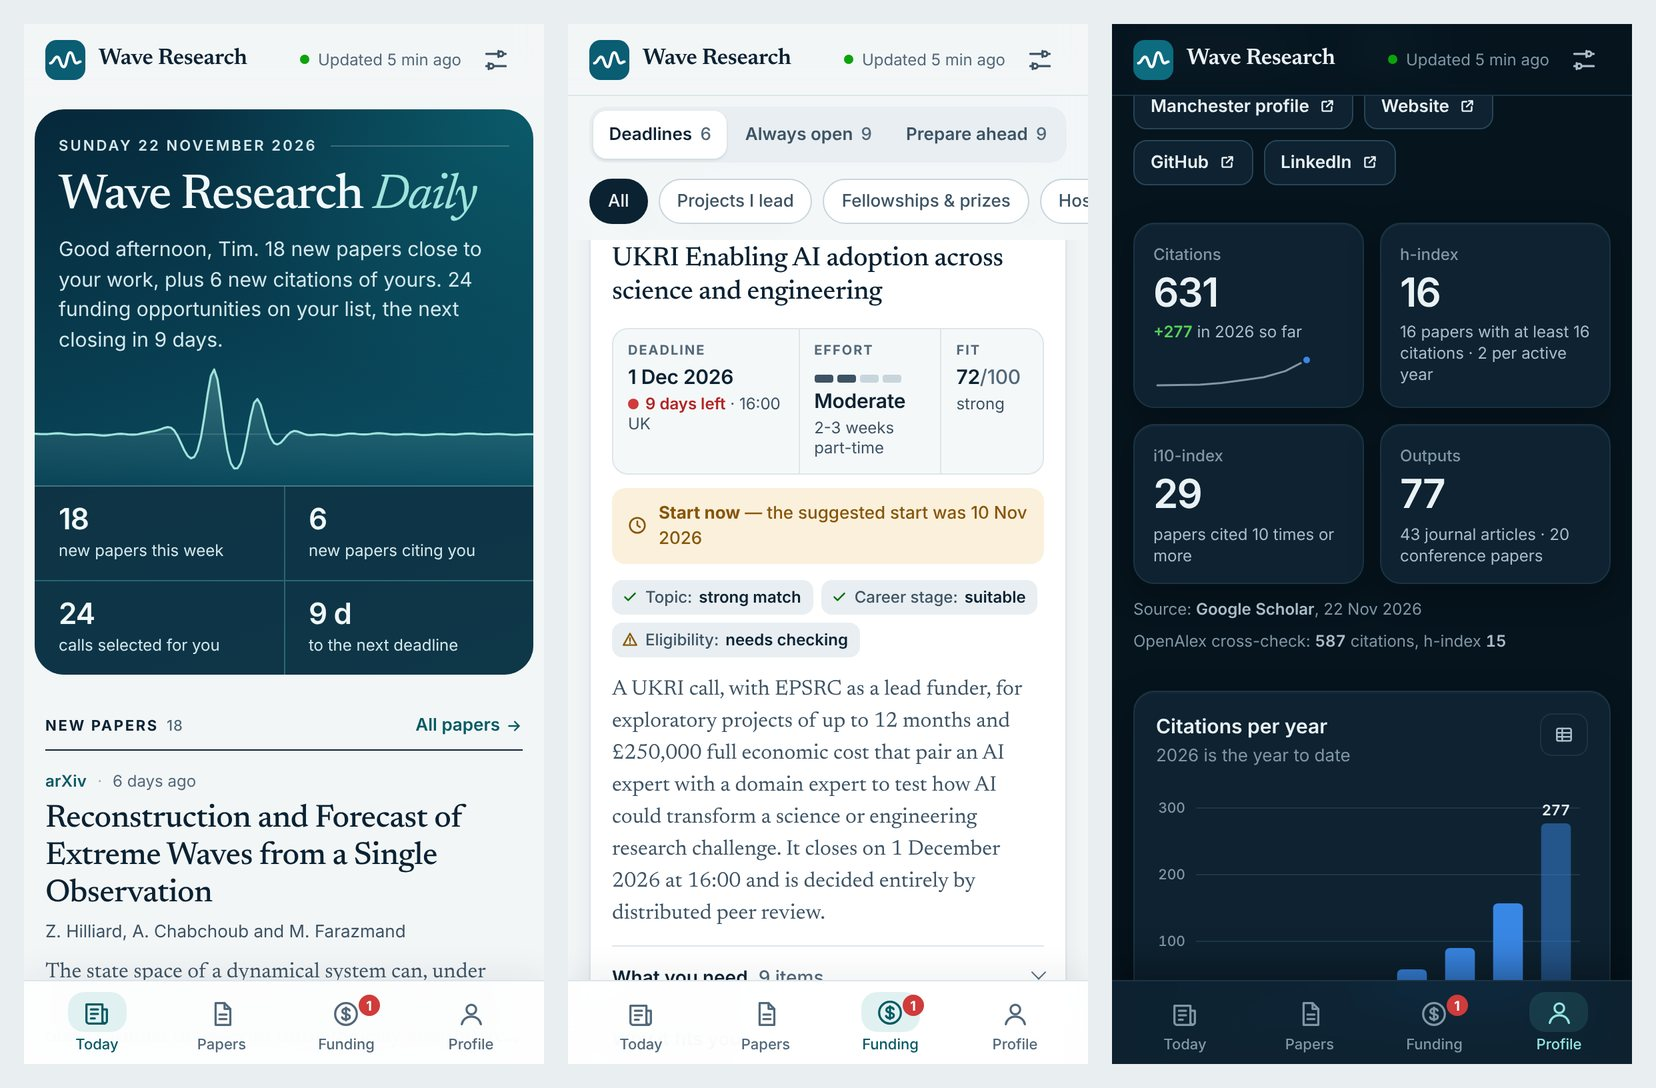
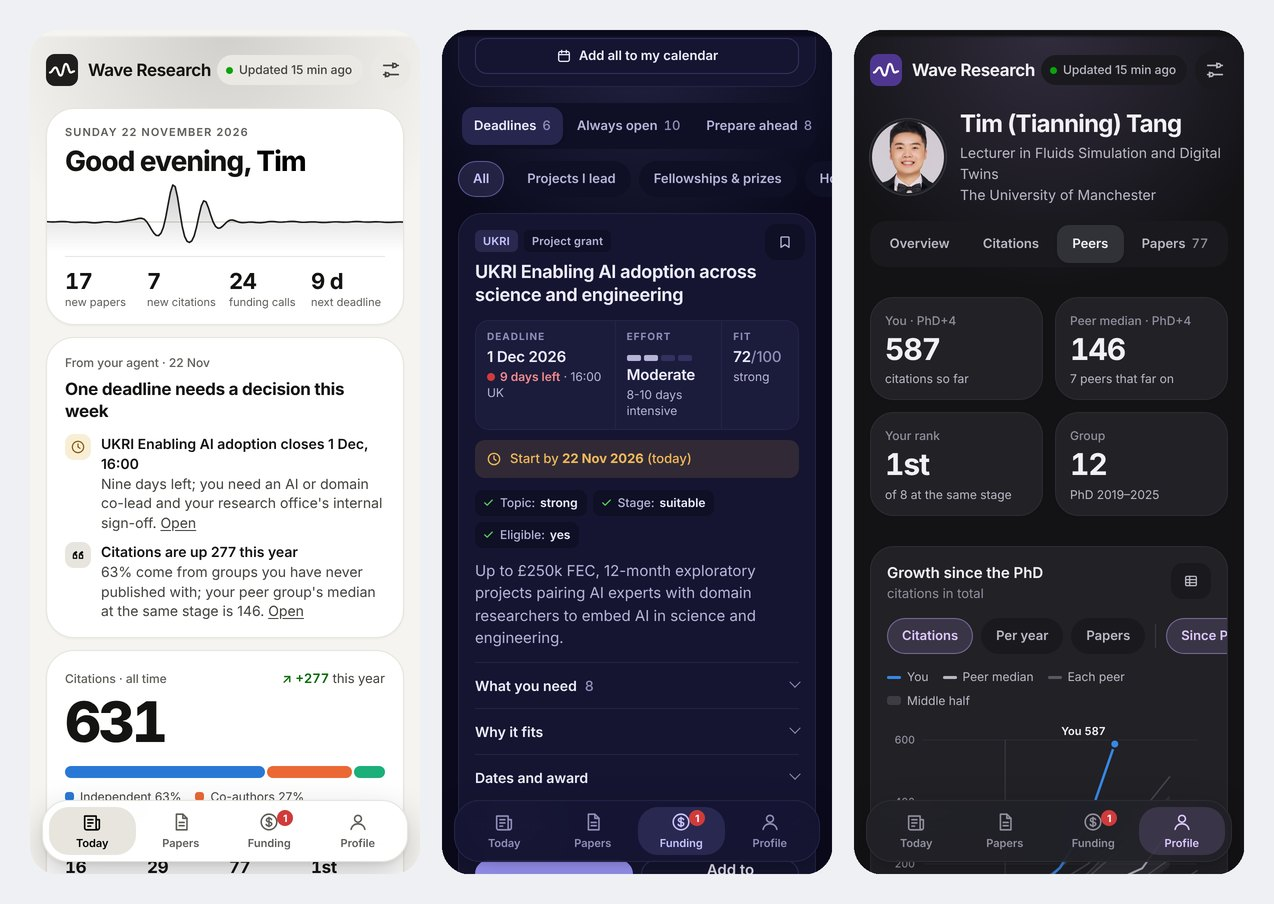
Fix the tab bar floating too high on iPhones that under-report the screen height
Opened from the home screen, the phone gave a height that left out the
strip under the status bar (894 of 956 points) although the page is drawn
there, so the shell stopped short. The height rule now adds that strip back
when it accounts exactly for the difference (or the app runs from the home
screen), still never exceeding the screen; it is a pure function with tests
for nine situations.

Also: a dark backdrop behind the clock on light themes when run from the
home screen, a quiet refresh when the app is reopened after two hours, and
new screenshots in the README.

Claude-Session: https://claude.ai/code/session_01KFCmtFvKPobm4RgsDFMyt1

diff --git a/assets/js/app.js b/assets/js/app.js
@@ -1,5 +1,5 @@
 // Wave Research — bootstrap, routing and the settings sheet.
-import { $, $$, esc, icon, store, shelf, toast, ago, daysTo, fmtDate, safeUrl, num } from './util.js';
+import { $, $$, esc, icon, store, shelf, toast, ago, daysTo, fmtDate, safeUrl, num, shellHeight } from './util.js';
 import { clearCharts } from './charts.js';
 import { paperIndex, isLive } from './cards.js';
 import { renderToday } from './view-today.js';
@@ -260,12 +260,19 @@ start();
 // A page opened from the home screen can report a viewport taller than the screen, which pushes
 // anything anchored to its bottom out of sight. The shell's height is therefore measured, and never
 // allowed to exceed the screen itself.
+let insetProbe = null;
 function fitShell() {
-  const vv = window.visualViewport;
-  const seen = Math.max(window.innerHeight || 0, vv ? vv.height : 0);
-  const screenMax = Math.max(window.screen?.height || 0, window.screen?.width || 0) || Infinity;
-  const h = Math.min(seen, window.innerWidth > window.innerHeight ? seen : screenMax);
-  if (h > 100) document.documentElement.style.setProperty('--app-h', `${Math.round(h)}px`);
+  if (!insetProbe) {                                     // reads env(safe-area-inset-top): the strip under the status bar
+    insetProbe = document.createElement('div');
+    insetProbe.style.cssText = 'position:absolute;visibility:hidden;pointer-events:none;height:0;padding-top:env(safe-area-inset-top,0px)';
+    document.body.appendChild(insetProbe);
+  }
+  const h = shellHeight({
+    inner: window.innerHeight, visual: window.visualViewport?.height, screenW: window.screen?.width, screenH: window.screen?.height,
+    portrait: window.innerWidth <= window.innerHeight, top: parseFloat(getComputedStyle(insetProbe).paddingTop) || 0,
+    standalone: window.navigator.standalone === true || window.matchMedia('(display-mode: standalone)').matches,
+  });
+  if (h > 100) document.documentElement.style.setProperty('--app-h', `${h}px`);
 }
 fitShell();
 ['resize', 'orientationchange', 'pageshow'].forEach((ev) => window.addEventListener(ev, fitShell));
@@ -294,12 +301,24 @@ async function refresh() {
     }
   } catch { /* no service worker: data only */ }
   await loadAll(true);
+  loadedAt = Date.now();
   freshness();
   tabBadges();
   route();
   if (newVersion) { toast('New version — reloading'); setTimeout(() => location.reload(), 900); return; }
   toast(!navigator.onLine ? 'Offline — showing the saved edition' : stamp() === before ? `Up to date · ${ctx.updatedLine.replace('Built', 'built')}` : 'Updated');
 }
+
+// Coming back to the app after a while: fetch the latest edition quietly if you are at the top.
+let loadedAt = Date.now();
+document.addEventListener('visibilitychange', async () => {
+  if (document.hidden || refreshing || Date.now() - loadedAt < 2 * 36e5 || scroller.scrollTop > 40 || !sheet.hidden) return;
+  loadedAt = Date.now();
+  await loadAll(true);
+  freshness();
+  tabBadges();
+  route();
+});
 
 scroller.addEventListener('touchstart', (e) => {
   const ok = !refreshing && sheet.hidden && scroller.scrollTop <= 2 && e.touches.length === 1

diff --git a/assets/js/util.js b/assets/js/util.js
@@ -117,6 +117,22 @@ export function people(list, total, max = 3) {
 }
 export const initials = (name) => name.replace(/\(.*?\)/g, '').trim().split(/\s+/).filter(Boolean).map((w) => w[0]).filter((c, i, a) => i === 0 || i === a.length - 1).join('').toUpperCase();
 
+// ── how tall the app shell should be ────────────────────────────────────────
+/**
+ * The height of the visible screen, from what the browser reports. Two faults are corrected:
+ *  - opened from the home screen, some iPhones leave the strip under the status bar out of the
+ *    height although the page is drawn there too (`top` is that strip: env(safe-area-inset-top));
+ *  - a web view can report a height taller than the screen itself.
+ * inner/visual: window.innerHeight and visualViewport.height; screenW/screenH: screen.width/height.
+ */
+export function shellHeight({ inner, visual = 0, screenW = 0, screenH = 0, portrait = true, top = 0, standalone = false }) {
+  let h = Math.max(inner || 0, visual || 0);
+  const longSide = Math.max(screenW, screenH), shortSide = Math.min(screenW, screenH);
+  const full = longSide ? (portrait ? longSide : shortSide) : Infinity;      // phones keep screen.* in portrait terms or swap them
+  if (top > 0 && (standalone || Math.abs(h + top - full) < 3)) h = Math.max(h, full === Infinity ? h + top : full);
+  return Math.round(Math.min(h, full));
+}
+
 // ── hand a task to Claude ────────────────────────────────────────────────────
 /** owner/name of the GitHub repository behind a github.io page ('' anywhere else). */
 export function repoSlug() {

diff --git a/assets/css/app.css b/assets/css/app.css
@@ -429,6 +429,11 @@ body {
   position: absolute; z-index: 30; inset: 0 0 auto 0; height: calc(env(safe-area-inset-top, 0px) + 8px); pointer-events: none;
   background: linear-gradient(var(--bg) 60%, transparent);
 }
+/* Opened from the home screen, the phone draws its clock in white over the page: give it a dark
+   backdrop when the page itself is light. */
+@media (display-mode: standalone) {
+  :root[data-mode="light"] .statusfade { background: linear-gradient(rgba(12, 14, 20, .62) 50%, transparent); }
+}
 button, summary, .chip, .seg, .tabbar a, .ticker a, .brand { -webkit-user-select: none; user-select: none; -webkit-touch-callout: none; }
 .pressable:active, .btn:active, .act:active, .chip:active, .tabbar a:active, .icon-btn:active { transform: scale(.97); }
 

diff --git a/sw.js b/sw.js
@@ -1,6 +1,6 @@
 // Offline support. Pages, scripts and data are fetched fresh whenever the network answers and
 // fall back to the last copy when it does not; fonts and icons are served from the cache.
-const CACHE = 'wave-research-v3';
+const CACHE = 'wave-research-v4';
 const SHELL = [
   './', 'index.html', 'manifest.webmanifest',
   'assets/css/app.css',

diff --git a/assets/js/palettes.js b/assets/js/palettes.js
@@ -33,6 +33,7 @@
     }
     root.style.setProperty('--grid', set.line);
     root.setAttribute('data-palette', name);
+    root.setAttribute('data-mode', mode());
     var metas = document.querySelectorAll('meta[name="theme-color"]');
     for (var i = 0; i < metas.length; i++) metas[i].setAttribute('content', set.bg);
     return name;
